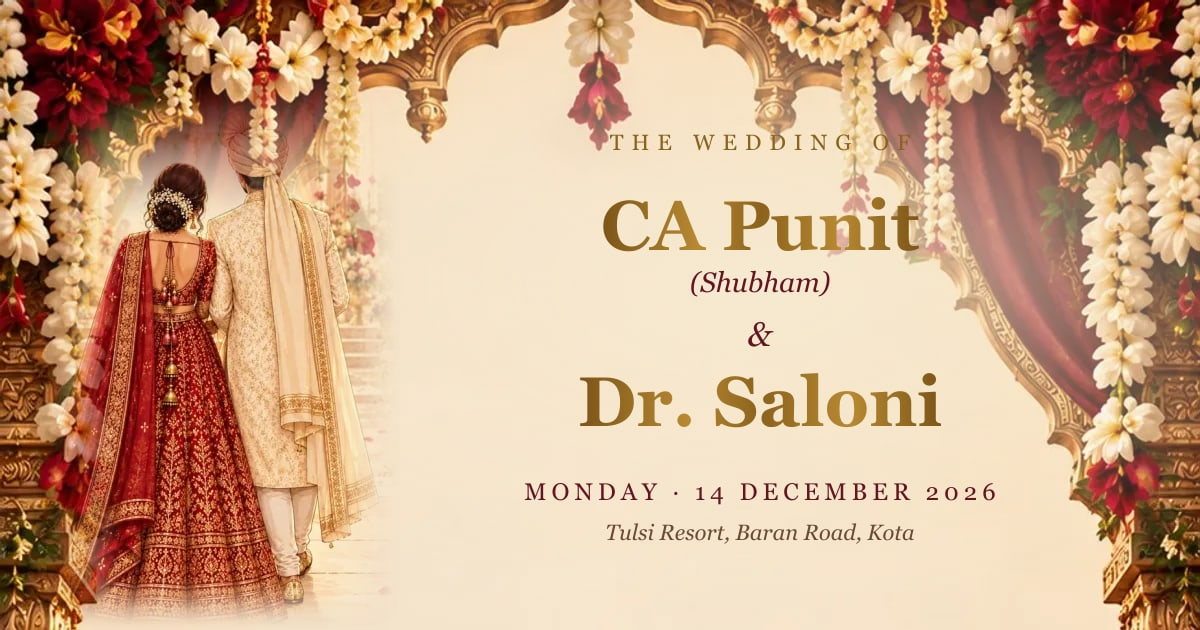
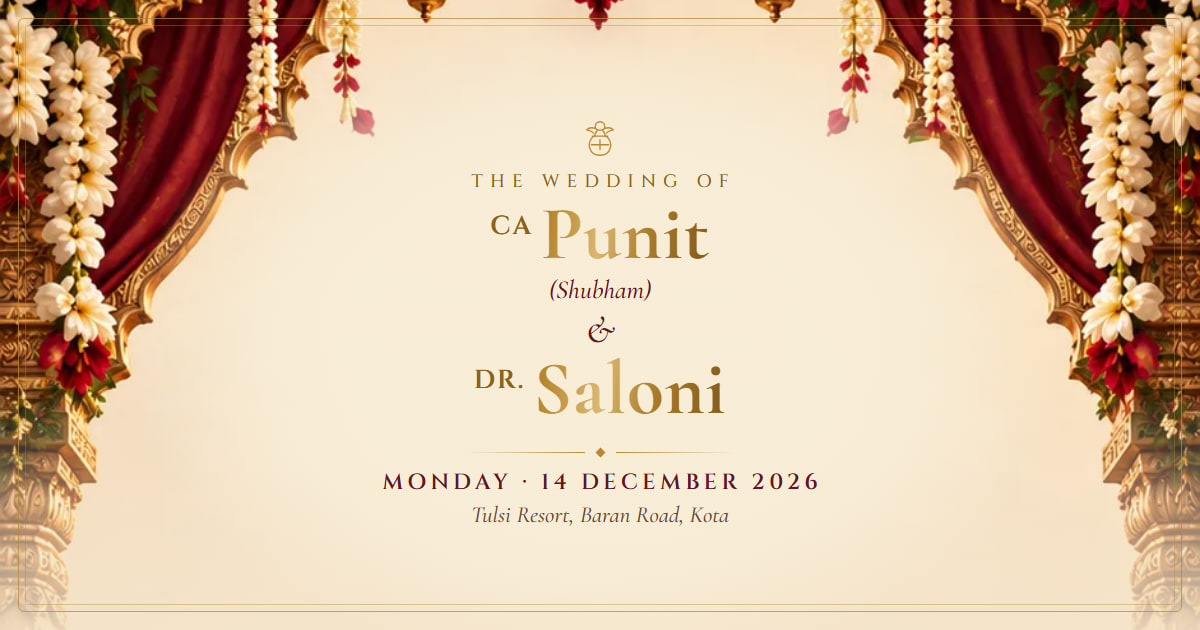
punit-saloni-wedding: a new WhatsApp link-preview cover (client, 22 Nov) — centred and symmetrical on the design's own arch of garlands and drapes, with the names, date and place inside the middle square so a cropped thumbnail still reads; shot from tools/punit-saloni-wedding-og.html with headless C

diff --git a/tools/punit-saloni-wedding-og.html b/tools/punit-saloni-wedding-og.html
@@ -1,0 +1,55 @@
+<!DOCTYPE html>
+<!-- Link-preview card for public/punit-saloni-wedding (1200×630), redrawn 2026-11-22 so it reads well in WhatsApp:
+     everything is centred and symmetrical (the design's arch of garlands and drapes framing both sides), and the names,
+     date and place sit inside the middle square, the part WhatsApp keeps when it shows a small square thumbnail.
+     Shot with headless Chrome:
+       chrome --headless=new --hide-scrollbars --window-size=1200,630 --virtual-time-budget=6000 \
+              --screenshot=<png> file:///…/tools/punit-saloni-wedding-og.html
+     then saved as public/punit-saloni-wedding/assets/og.jpg -->
+<html><head><meta charset="utf-8">
+<link href="https://fonts.googleapis.com/css2?family=Cinzel:wght@500;600&family=Cormorant+Garamond:ital,wght@0,600;0,700;1,500&display=block" rel="stylesheet">
+<style>
+  html, body { margin: 0; width: 1200px; height: 630px; overflow: hidden; background: #f4e4ca; }
+  /* the design's own arch (garlands, bells, maroon drapes), widened to the card and kept to its upper part */
+  .art { position: absolute; inset: 0; background: url(../public/punit-saloni-wedding/assets/hero-arch.webp) center 8% / 1200px auto no-repeat; }
+  .art::after { content: ''; position: absolute; inset: 0;
+    background: radial-gradient(ellipse 470px 330px at 50% 54%, rgba(248, 237, 214, .97) 0 55%, rgba(248, 237, 214, .82) 72%, rgba(248, 237, 214, 0) 100%),
+                linear-gradient(180deg, rgba(244, 228, 202, 0) 62%, rgba(244, 228, 202, .9) 100%); }
+  /* a fine double gold keyline, the same distance from every edge */
+  .frame { position: absolute; inset: 18px; border: 1.5px solid rgba(184, 137, 50, .75); border-radius: 6px; }
+  .frame::after { content: ''; position: absolute; inset: 6px; border: 1px solid rgba(184, 137, 50, .4); border-radius: 3px; }
+  .copy { position: absolute; left: 0; right: 0; top: 0; bottom: 0; display: flex; flex-direction: column; align-items: center; justify-content: center; text-align: center; padding-top: 14px; }
+  .kalasha { width: 46px; height: 46px; margin-bottom: 8px; }
+  .eyebrow { font: 500 18px Cinzel, serif; letter-spacing: .4em; text-indent: .4em; color: #8c621d; }
+  .name { margin-top: 2px; font: 700 76px/1.02 'Cormorant Garamond', serif; letter-spacing: .01em; padding: 0 .1em .08em;
+    background: linear-gradient(100deg, #7d5518, #b88932 30%, #d9b770 50%, #a87a2a 70%, #7d5518); -webkit-background-clip: text; background-clip: text; color: transparent; }
+  .name small { font: 600 26px Cinzel, serif; letter-spacing: .08em; vertical-align: .95em; margin-right: .3em; color: #8c621d; -webkit-text-fill-color: #8c621d; }
+  .alias { margin-top: -6px; font: italic 500 26px 'Cormorant Garamond', serif; color: #651522; }
+  .amp { margin: 2px 0 -4px; font: italic 500 38px 'Cormorant Garamond', serif; color: #651522; }
+  .rule { display: flex; align-items: center; gap: 12px; margin: 14px 0 12px; }
+  .rule i { width: 120px; height: 1px; background: linear-gradient(90deg, transparent, #b88932); }
+  .rule i:last-child { transform: scaleX(-1); }
+  .rule b { width: 7px; height: 7px; background: #b88932; transform: rotate(45deg); }
+  .date { font: 600 22px Cinzel, serif; letter-spacing: .2em; text-indent: .2em; color: #651522; }
+  .place { margin-top: 4px; font: italic 500 23px 'Cormorant Garamond', serif; color: #6a4b35; }
+</style></head>
+<body>
+  <div class="art"></div>
+  <div class="frame"></div>
+  <div class="copy">
+    <svg class="kalasha" viewBox="0 0 48 48" fill="none" stroke="#b88932" stroke-width="1.4" stroke-linecap="round" stroke-linejoin="round" aria-hidden="true">
+      <path d="M24 7c3 0 5 2.4 5 5.2 0 2.2-1.5 3.6-5 3.6s-5-1.4-5-3.6C19 9.4 21 7 24 7z"/>
+      <path d="M19 14c-4-1.5-7-.5-9 1.5 3 .5 5.5 1.5 7 3.2M29 14c4-1.5 7-.5 9 1.5-3 .5-5.5 1.5-7 3.2M21 16.5c-2 2-2.6 4-2.2 6M27 16.5c2 2 2.6 4 2.2 6"/>
+      <path d="M16 22h16M17.5 22c-4 3.5-5.5 8-4.2 12.5C14.6 39 18.7 42 24 42s9.4-3 10.7-7.5c1.3-4.5-.2-9-4.2-12.5"/>
+      <path d="M15 31h18M24 26v10"/>
+    </svg>
+    <div class="eyebrow">THE WEDDING OF</div>
+    <div class="name"><small>CA</small>Punit</div>
+    <div class="alias">(Shubham)</div>
+    <div class="amp">&amp;</div>
+    <div class="name"><small>DR.</small>Saloni</div>
+    <div class="rule"><i></i><b></b><i></i></div>
+    <div class="date">MONDAY · 14 DECEMBER 2026</div>
+    <div class="place">Tulsi Resort, Baran Road, Kota</div>
+  </div>
+</body></html>

diff --git a/public/punit-saloni-wedding/index.html b/public/punit-saloni-wedding/index.html
@@ -13,12 +13,18 @@
 <meta property="og:locale" content="en_IN">
 <meta property="og:url" content="https://invitivals.com/punit-saloni-wedding/">
 <meta property="og:title" content="CA Punit (Shubham) &amp; Dr. Saloni · Wedding Invitation">
-<meta property="og:description" content="14 December 2026 · Tulsi Resort, Baran Road, Kota. Tap to open the invitation.">
-<meta property="og:image" content="https://invitivals.com/punit-saloni-wedding/assets/og.jpg">
+<meta property="og:description" content="Monday, 14 December 2026 · Tulsi Resort, Baran Road, Kota. Tap to open the invitation.">
+<meta property="og:image" content="https://invitivals.com/punit-saloni-wedding/assets/og.jpg?v=2">
+<meta property="og:image:secure_url" content="https://invitivals.com/punit-saloni-wedding/assets/og.jpg?v=2">
 <meta property="og:image:type" content="image/jpeg">
 <meta property="og:image:width" content="1200">
 <meta property="og:image:height" content="630">
+<meta property="og:image:alt" content="Wedding invitation of CA Punit (Shubham) &amp; Dr. Saloni, Monday 14 December 2026, Tulsi Resort, Kota">
 <meta name="twitter:card" content="summary_large_image">
+<meta name="twitter:title" content="CA Punit (Shubham) &amp; Dr. Saloni · Wedding Invitation">
+<meta name="twitter:description" content="Monday, 14 December 2026 · Tulsi Resort, Baran Road, Kota. Tap to open the invitation.">
+<meta name="twitter:image" content="https://invitivals.com/punit-saloni-wedding/assets/og.jpg?v=2">
+<meta name="twitter:image:alt" content="Wedding invitation of CA Punit (Shubham) &amp; Dr. Saloni, Monday 14 December 2026, Tulsi Resort, Kota">
 <link rel="icon" href="favicon.svg" type="image/svg+xml">
 <link rel="preload" as="image" href="assets/intro-poster.webp" fetchpriority="high">
 <link rel="preload" as="image" href="assets/hero-arch.webp">
